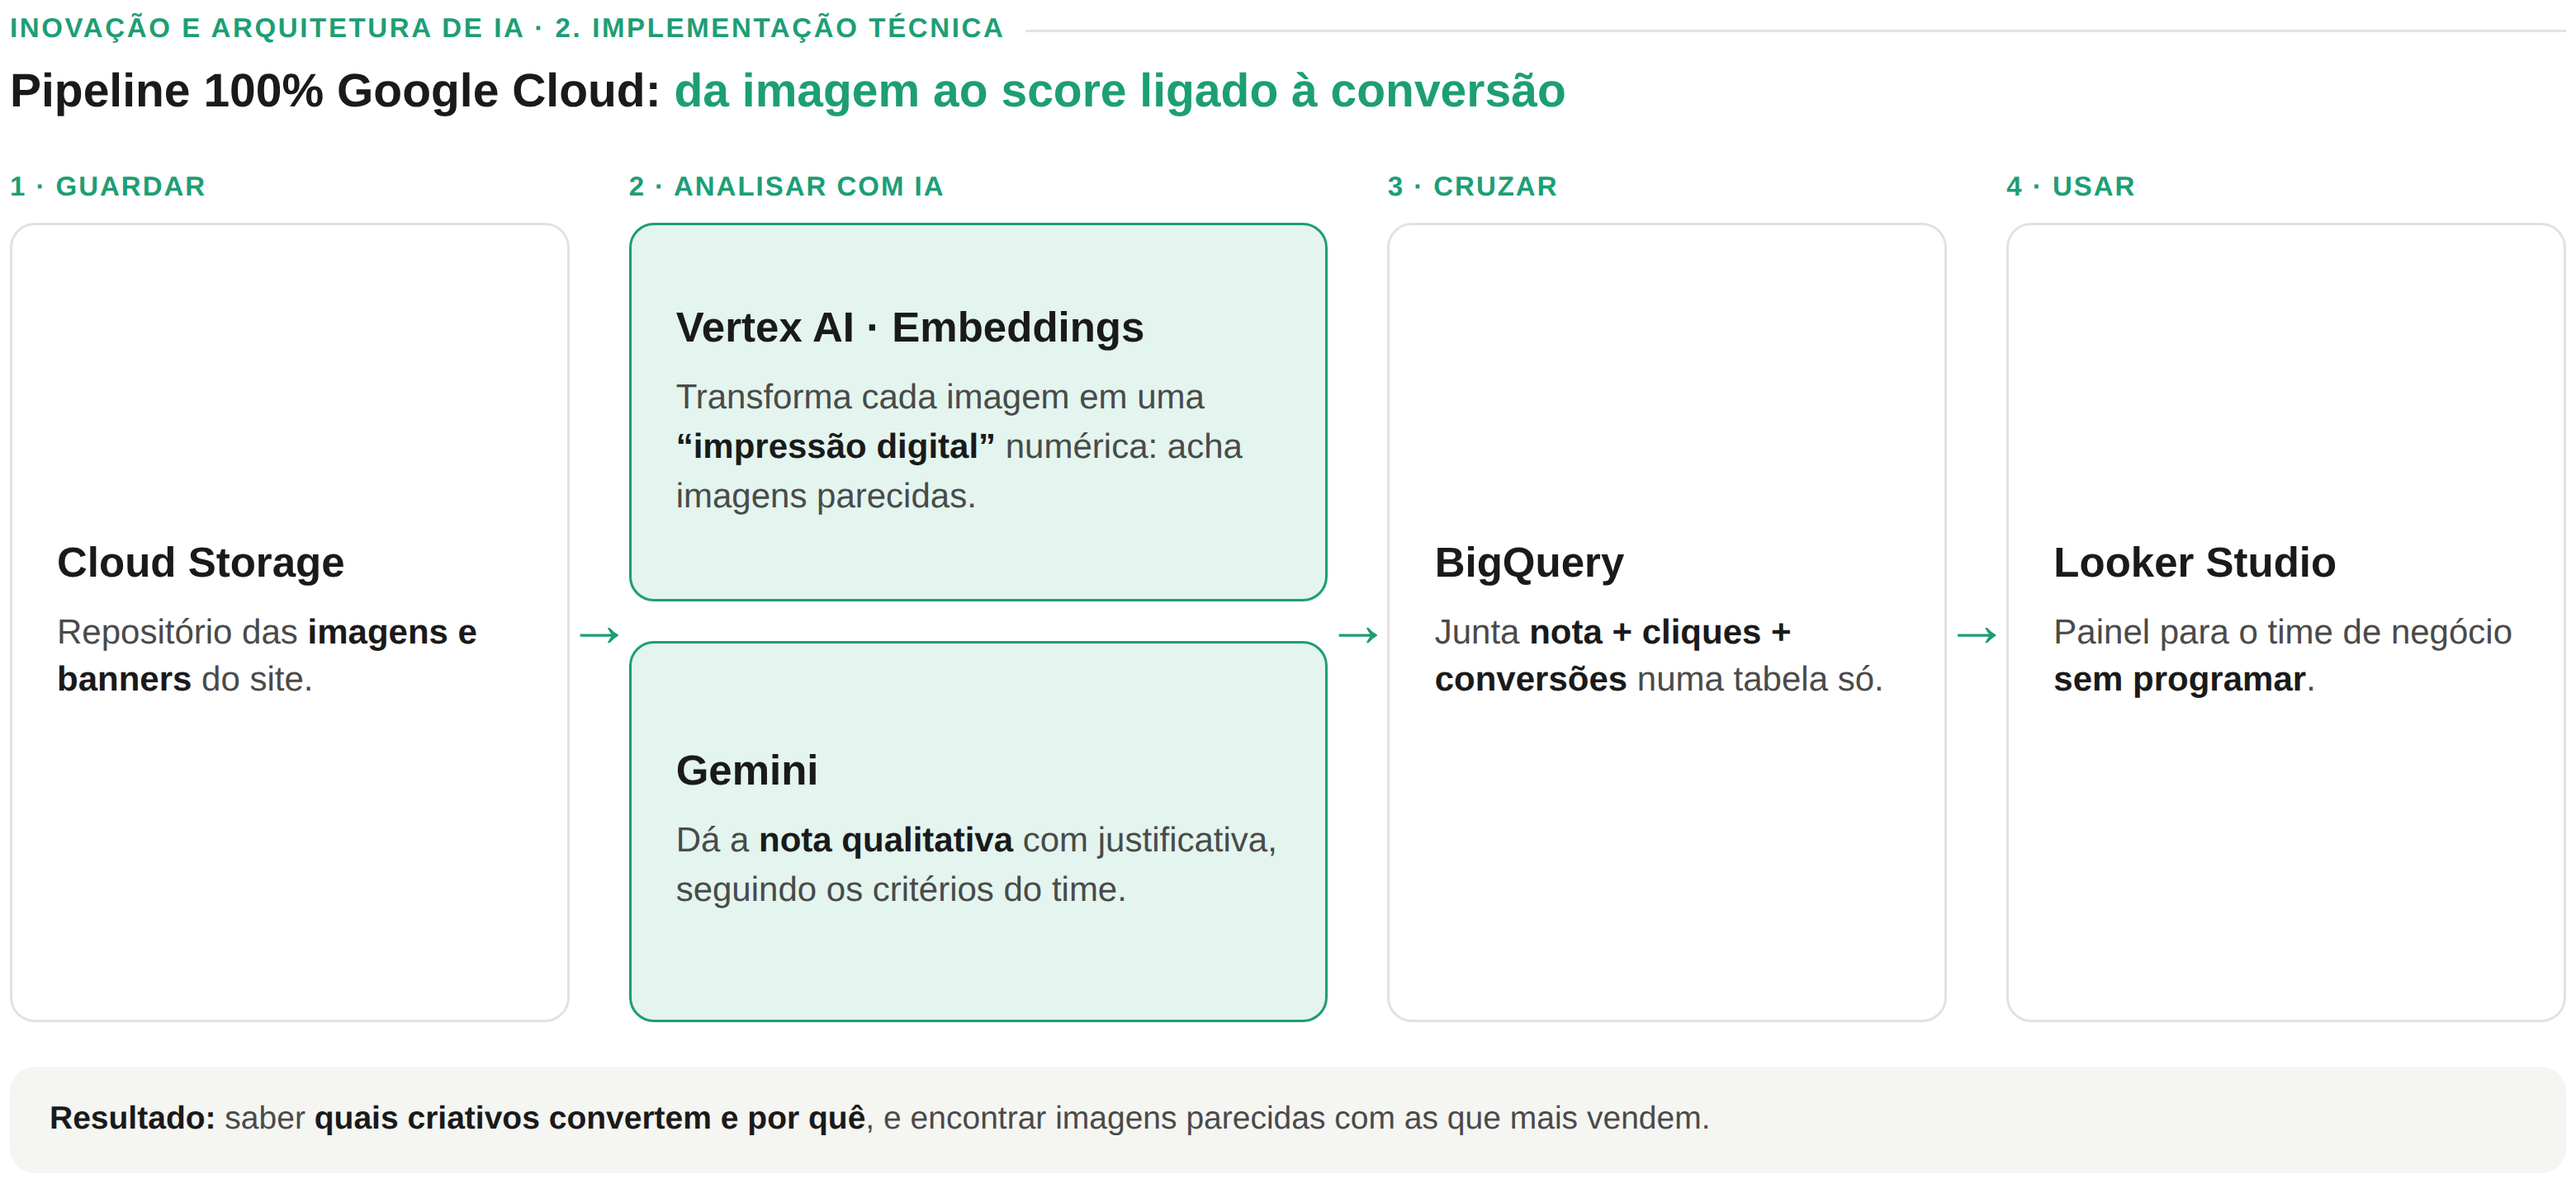
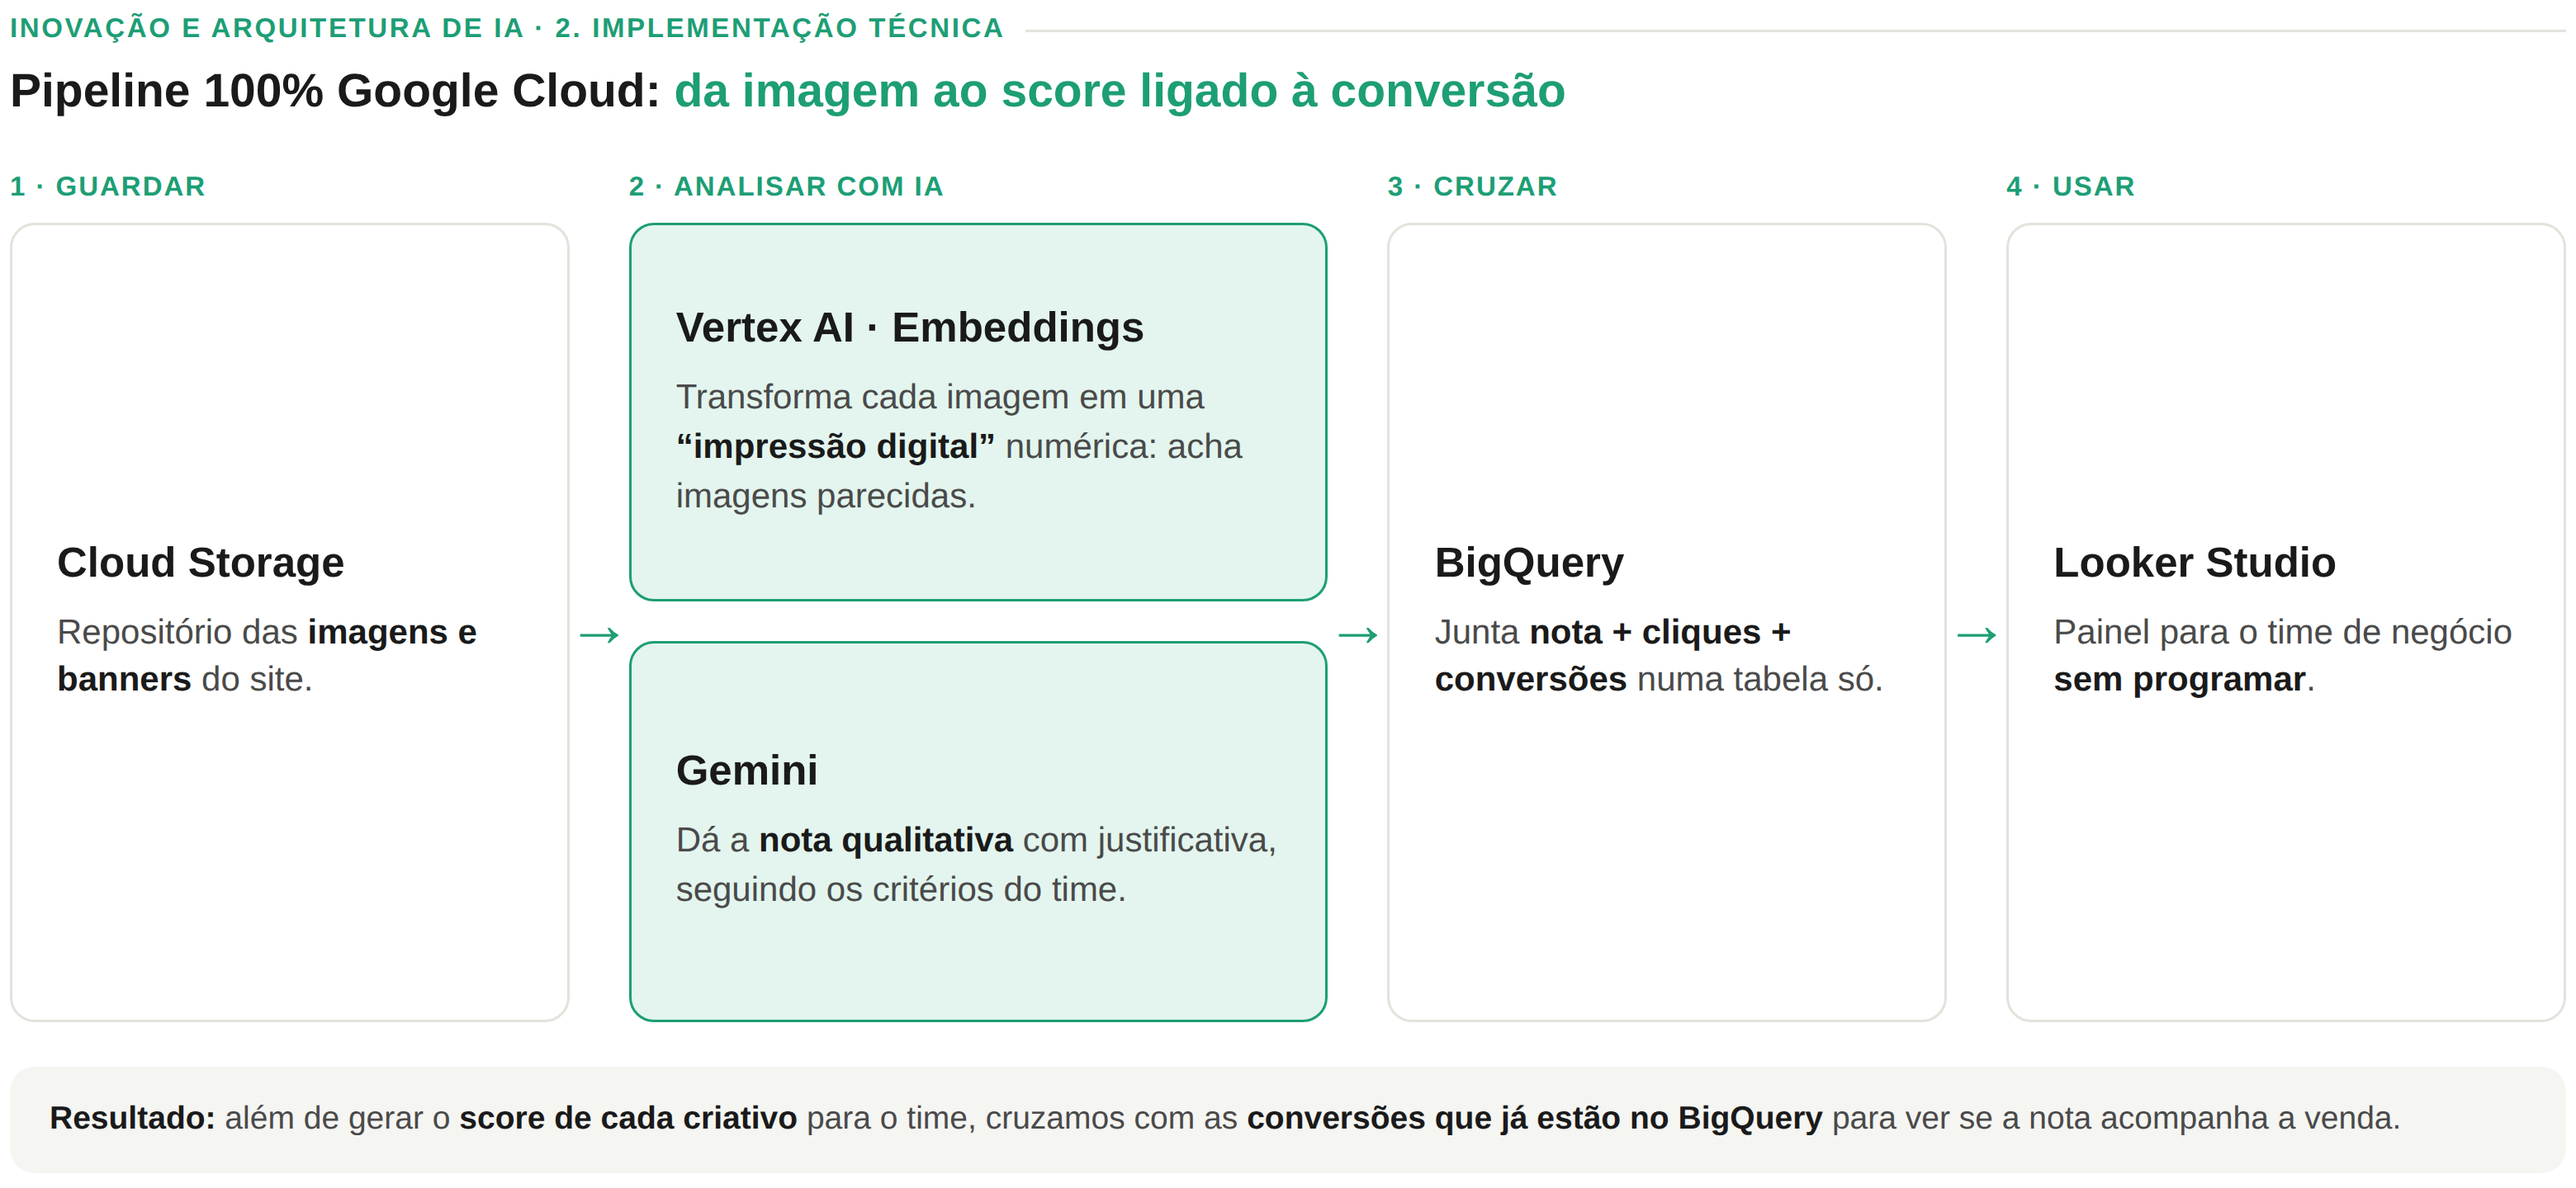
Widget 19: resultado cita score por criativo e cruzamento com conversões do BigQuery
Claude-Session: https://claude.ai/code/session_01NUJZKTcM8cs9QBTcUeuacF

Changed region(s): [[0.0933, 0.9062, 0.9327, 0.9688]]

diff --git a/apresentacao/widgets/19_ia_arquitetura.html b/apresentacao/widgets/19_ia_arquitetura.html
@@ -49,7 +49,7 @@
       <div class="card"><h4>Looker Studio</h4><p>Painel para o time de negócio <b>sem programar</b>.</p></div>
     </div>
   </div>
-  <div class="saida"><b>Resultado:</b> saber <b>quais criativos convertem e por quê</b>, e encontrar imagens parecidas com as que mais vendem.</div>
+  <div class="saida"><b>Resultado:</b> além de gerar o <b>score de cada criativo</b> para o time, cruzamos com as <b>conversões que já estão no BigQuery</b> para ver se a nota acompanha a venda.</div>
 </div>
 </body>
 </html>
